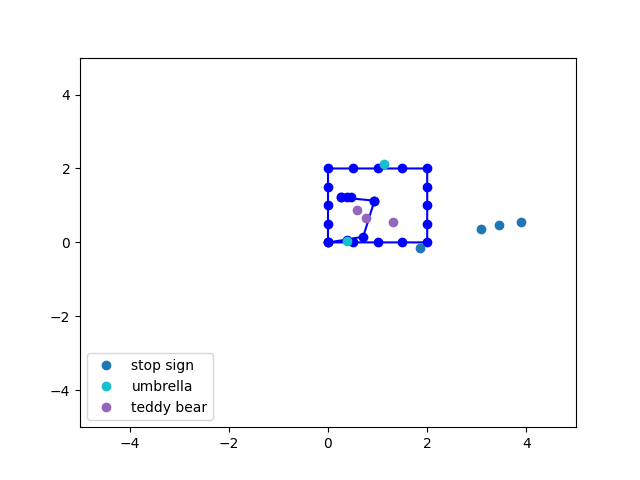
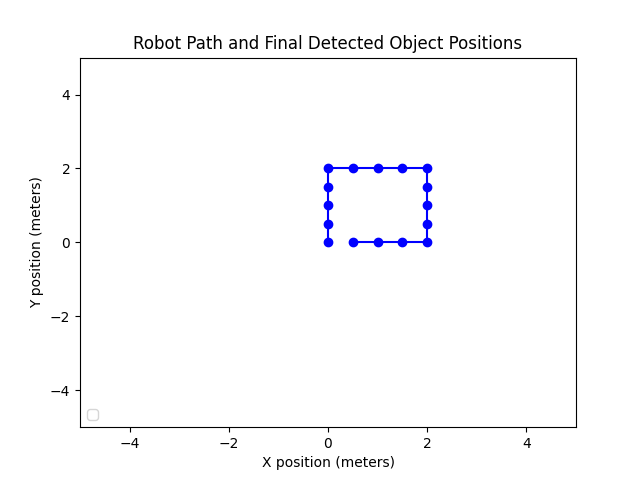
update

diff --git a/rb5_control/src/hw3_slam_control.py b/rb5_control/src/hw3_slam_control.py
@@ -1,4 +1,4 @@
-# hw3_slam_control.py - Updated to display only final predicted locations of landmarks
+# hw3_slam_control.py - Updated to plot detected objects based on measured distance
 import rclpy
 from rclpy.node import Node
 from std_msgs.msg import Float32MultiArray
@@ -13,8 +13,35 @@ class EKFSLAM:
         self.state = np.zeros((3 + 2 * len(object_list), 1))  # [x, y, theta, x1, y1, x2, y2, ...]
         self.P = np.eye(3 + 2 * len(object_list)) * 1000  # Large initial uncertainty for landmarks
         self.R = np.diag([0.1, 0.1])  # Measurement noise for range and bearing
+        self.Q = np.diag([0.05, 0.05, 0.01])  # Process noise for [x, y, theta]
         self.object_list = object_list
         self.colors = plt.cm.get_cmap('tab10', len(object_list))
+
+    def predict(self, control_input):
+        """Predict step for EKF based on control input."""
+        x, y, theta = self.state[0, 0], self.state[1, 0], self.state[2, 0]
+        distance, heading_change = control_input
+
+        # Predict the new state based on control input
+        new_x = x + distance * np.cos(theta)
+        new_y = y + distance * np.sin(theta)
+        new_theta = theta + heading_change
+        new_theta = (new_theta + np.pi) % (2 * np.pi) - np.pi  # Normalize theta
+
+        # Update state
+        self.state[0, 0] = new_x
+        self.state[1, 0] = new_y
+        self.state[2, 0] = new_theta
+
+        # Create an expanded process noise matrix that matches the size of P
+        Q_expanded = np.zeros_like(self.P)
+        Q_expanded[:3, :3] = self.Q  # Place Q in the top-left corner to affect only robot pose
+
+        # Update the covariance (process model) with the expanded process noise
+        F = np.eye(len(self.state))
+        F[0, 2] = -distance * np.sin(theta)
+        F[1, 2] = distance * np.cos(theta)
+        self.P = F @ self.P @ F.T + Q_expanded
 
     def update(self, measurement, obj_index):
         # Extract the robot's position and orientation from the state
@@ -66,9 +93,6 @@ class EKFSLAM:
         self.state += K @ innovation
         self.P = (np.eye(len(self.state)) - K @ H) @ self.P
 
-    def get_state(self):
-        return self.state
-
 class SlamControlNode(Node):
     def __init__(self):
         super().__init__('slam_control_node')
@@ -81,6 +105,7 @@ class SlamControlNode(Node):
         self.fig, self.ax = plt.subplots()
         self.set_plot_limits()
         self.robot_positions = []  # Store estimated robot positions from EKF
+        self.detected_objects = []  # Store positions of detected objects
         self.spin_and_track()
 
     def set_plot_limits(self):
@@ -95,30 +120,39 @@ class SlamControlNode(Node):
         # Update EKF SLAM with the measurement
         self.ekf_slam.update(measurement, int(obj_index))
         
-        # Update the robot position with EKF estimate
-        robot_x, robot_y = self.ekf_slam.state[0, 0], self.ekf_slam.state[1, 0]
+        # Calculate detected object's position based on distance and angle
+        robot_x, robot_y, theta = self.ekf_slam.state[0, 0], self.ekf_slam.state[1, 0], self.ekf_slam.state[2, 0]
+        obj_x = robot_x + distance * np.cos(theta + angle)
+        obj_y = robot_y + distance * np.sin(theta + angle)
+        object_name = self.objects_to_detect[obj_index]
+        self.detected_objects.append((obj_x, obj_y, object_name))
+        
+        # Update the robot position in the path
         self.robot_positions.append([robot_x, robot_y])
 
-    def plot_final_landmarks(self):
-        # Plot the robot path
+        # Plot the updated robot path and detected objects
+        self.update_and_plot()
+
+    def update_and_plot(self):
         self.ax.clear()
         self.set_plot_limits()
-        self.ax.plot(*zip(*self.robot_positions), 'bo-', label="Robot Path")
-        
-        # Plot final predicted positions of each landmark based on EKF state
-        legend_labels = {}
-        for i, obj_name in enumerate(self.objects_to_detect):
-            landmark_idx = 3 + 2 * i
-            obj_x, obj_y = self.ekf_slam.state[landmark_idx, 0], self.ekf_slam.state[landmark_idx + 1, 0]
-            color = self.ekf_slam.colors(i)
-            legend_labels[obj_name] = self.ax.plot(obj_x, obj_y, 'o', color=color, label=obj_name)[0]
 
-        # Display all unique object names in the bottom-left legend
+        # Plot the robot path
+        self.ax.plot(*zip(*self.robot_positions), 'bo-', label="Robot Path")
+
+        # Plot each detected object at its calculated position
+        legend_labels = {}
+        for x, y, name in self.detected_objects:
+            color = self.ekf_slam.colors(self.objects_to_detect.index(name))
+            if name not in legend_labels:
+                legend_labels[name] = self.ax.plot(x, y, 'o', color=color, label=name)[0]
+            else:
+                self.ax.plot(x, y, 'o', color=color)
+
+        # Display the legend in the bottom-left
         self.ax.legend(handles=legend_labels.values(), loc='lower left')
-        plt.title("Robot Path and Final Predicted Landmark Positions")
-        plt.xlabel("X position (meters)")
-        plt.ylabel("Y position (meters)")
-        plt.show()
+        plt.draw()
+        plt.pause(0.1)
         self.save_plot()
 
     def save_plot(self):
@@ -138,6 +172,12 @@ class SlamControlNode(Node):
 
     def move_forward(self, distance):
         print("Moving forward by 0.5 meters")
+        
+        # Perform a prediction step in the EKF for the forward movement
+        control_input = [distance, 0]  # No change in heading angle for straight movement
+        self.ekf_slam.predict(control_input)
+
+        # Publish the twist message to simulate movement (not actually affecting EKF state)
         move_twist = Twist()
         move_twist.linear.x = 2.0
         self.publisher_.publish(move_twist)
@@ -145,14 +185,19 @@ class SlamControlNode(Node):
         move_twist.linear.x = 0.0
         self.publisher_.publish(move_twist)
 
-        last_x, last_y = self.ekf_slam.state[0, 0], self.ekf_slam.state[1, 0]
-        new_x = last_x + distance * np.cos(self.ekf_slam.state[2, 0])
-        new_y = last_y + distance * np.sin(self.ekf_slam.state[2, 0])
-        self.robot_positions.append([new_x, new_y])
-        print(f"Updated Position: x = {new_x}, y = {new_y}")
+        # Update robot's position with the new EKF state
+        robot_x, robot_y = self.ekf_slam.state[0, 0], self.ekf_slam.state[1, 0]
+        self.robot_positions.append([robot_x, robot_y])
+        print(f"Updated Position: x = {robot_x}, y = {robot_y}")
 
     def turn_90_degrees(self):
         print("Turning 90 degrees")
+        
+        # Perform a prediction step in the EKF for the turn
+        control_input = [0, np.pi / 2]  # No movement forward, only change in heading angle
+        self.ekf_slam.predict(control_input)
+
+        # Publish the twist message to simulate rotation (not actually affecting EKF state)
         turn_twist = Twist()
         turn_twist.angular.z = 8.0
         self.publisher_.publish(turn_twist)
@@ -160,9 +205,27 @@ class SlamControlNode(Node):
         turn_twist.angular.z = 0.0
         self.publisher_.publish(turn_twist)
 
-        self.ekf_slam.state[2, 0] += np.pi / 2
-        self.ekf_slam.state[2, 0] %= 2 * np.pi
         print(f"Updated Heading (theta): {self.ekf_slam.state[2, 0]} radians")
+
+    def plot_final_landmarks(self):
+        # Plot the robot path
+        self.ax.clear()
+        self.set_plot_limits()
+        self.ax.plot(*zip(*self.robot_positions), 'bo-', label="Robot Path")
+
+        # Plot final detected object positions
+        legend_labels = {}
+        for x, y, name in self.detected_objects:
+            color = self.ekf_slam.colors(self.objects_to_detect.index(name))
+            legend_labels[name] = self.ax.plot(x, y, 'o', color=color, label=name)[0]
+
+        # Display all unique object names in the legend
+        self.ax.legend(handles=legend_labels.values(), loc='lower left')
+        plt.title("Robot Path and Final Detected Object Positions")
+        plt.xlabel("X position (meters)")
+        plt.ylabel("Y position (meters)")
+        plt.show()
+        self.save_plot()
 
 def main(args=None):
     rclpy.init(args=args)
